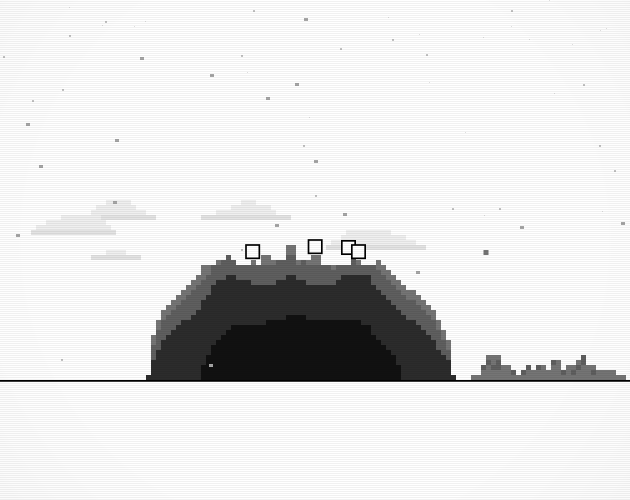
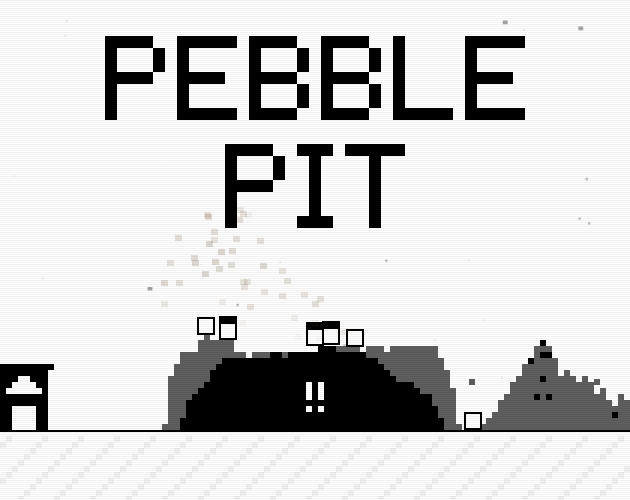
The itch cover carries the title: option A, the rock and its crew

diff --git a/itch/page.md b/itch/page.md
@@ -44,8 +44,10 @@ tick **This file will be played in the browser**. The build already uses relativ
 
 ## Cover
 
-`cover.png` — 630 × 500, itch's recommended size. Taken from the game: rock seven with
-four crew on it and the spoil bank beside it, roster and HUD hidden.
+`cover.png` — 630 × 500, itch's recommended size. The rock with four crew on it, her "!!"
+in the rock's dark and the spoil bank beside it, roster and HUD hidden, with "Pebble Pit"
+set above in the Steam capsules' 5×7 letters (docs/mocks/itch-cover-2026-10-16, option A,
+chosen 2026-10-16).
 
 ## Screenshots
 
